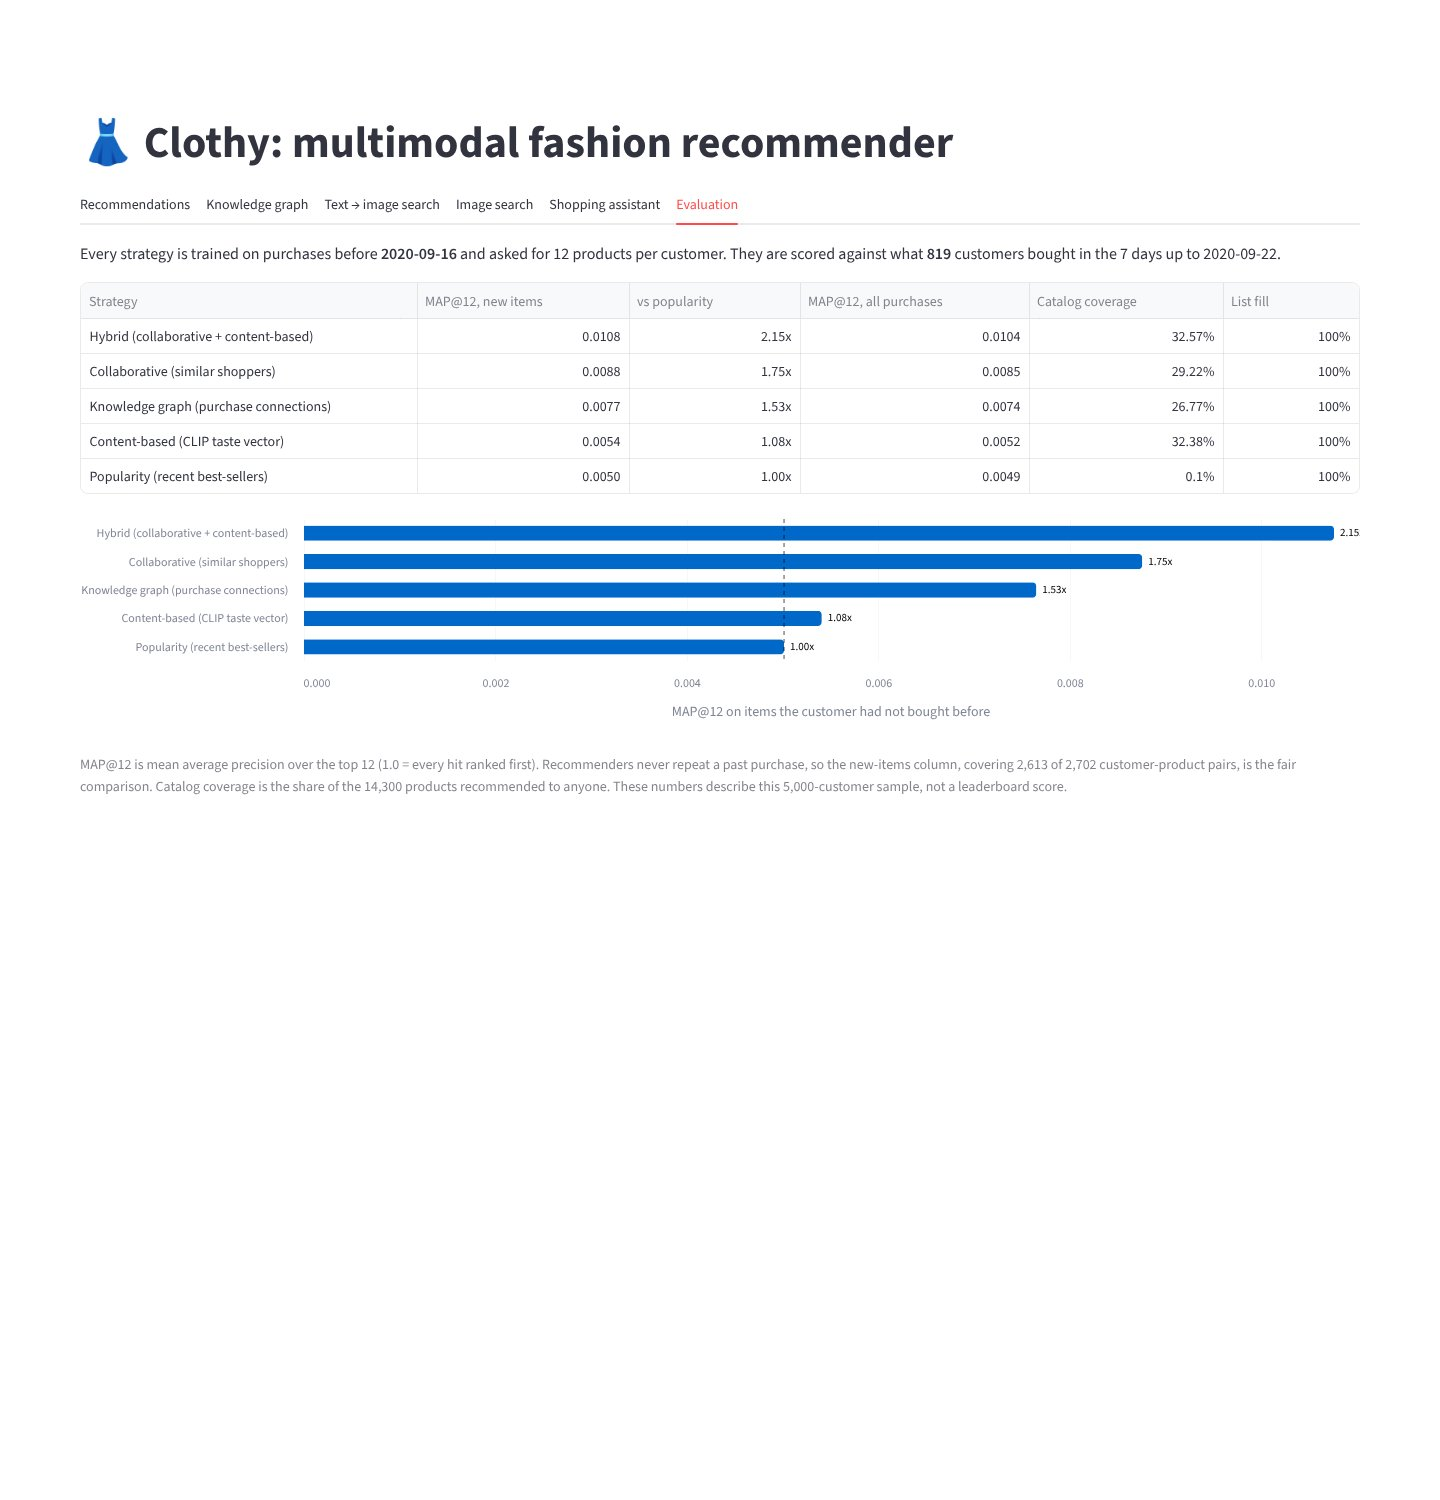
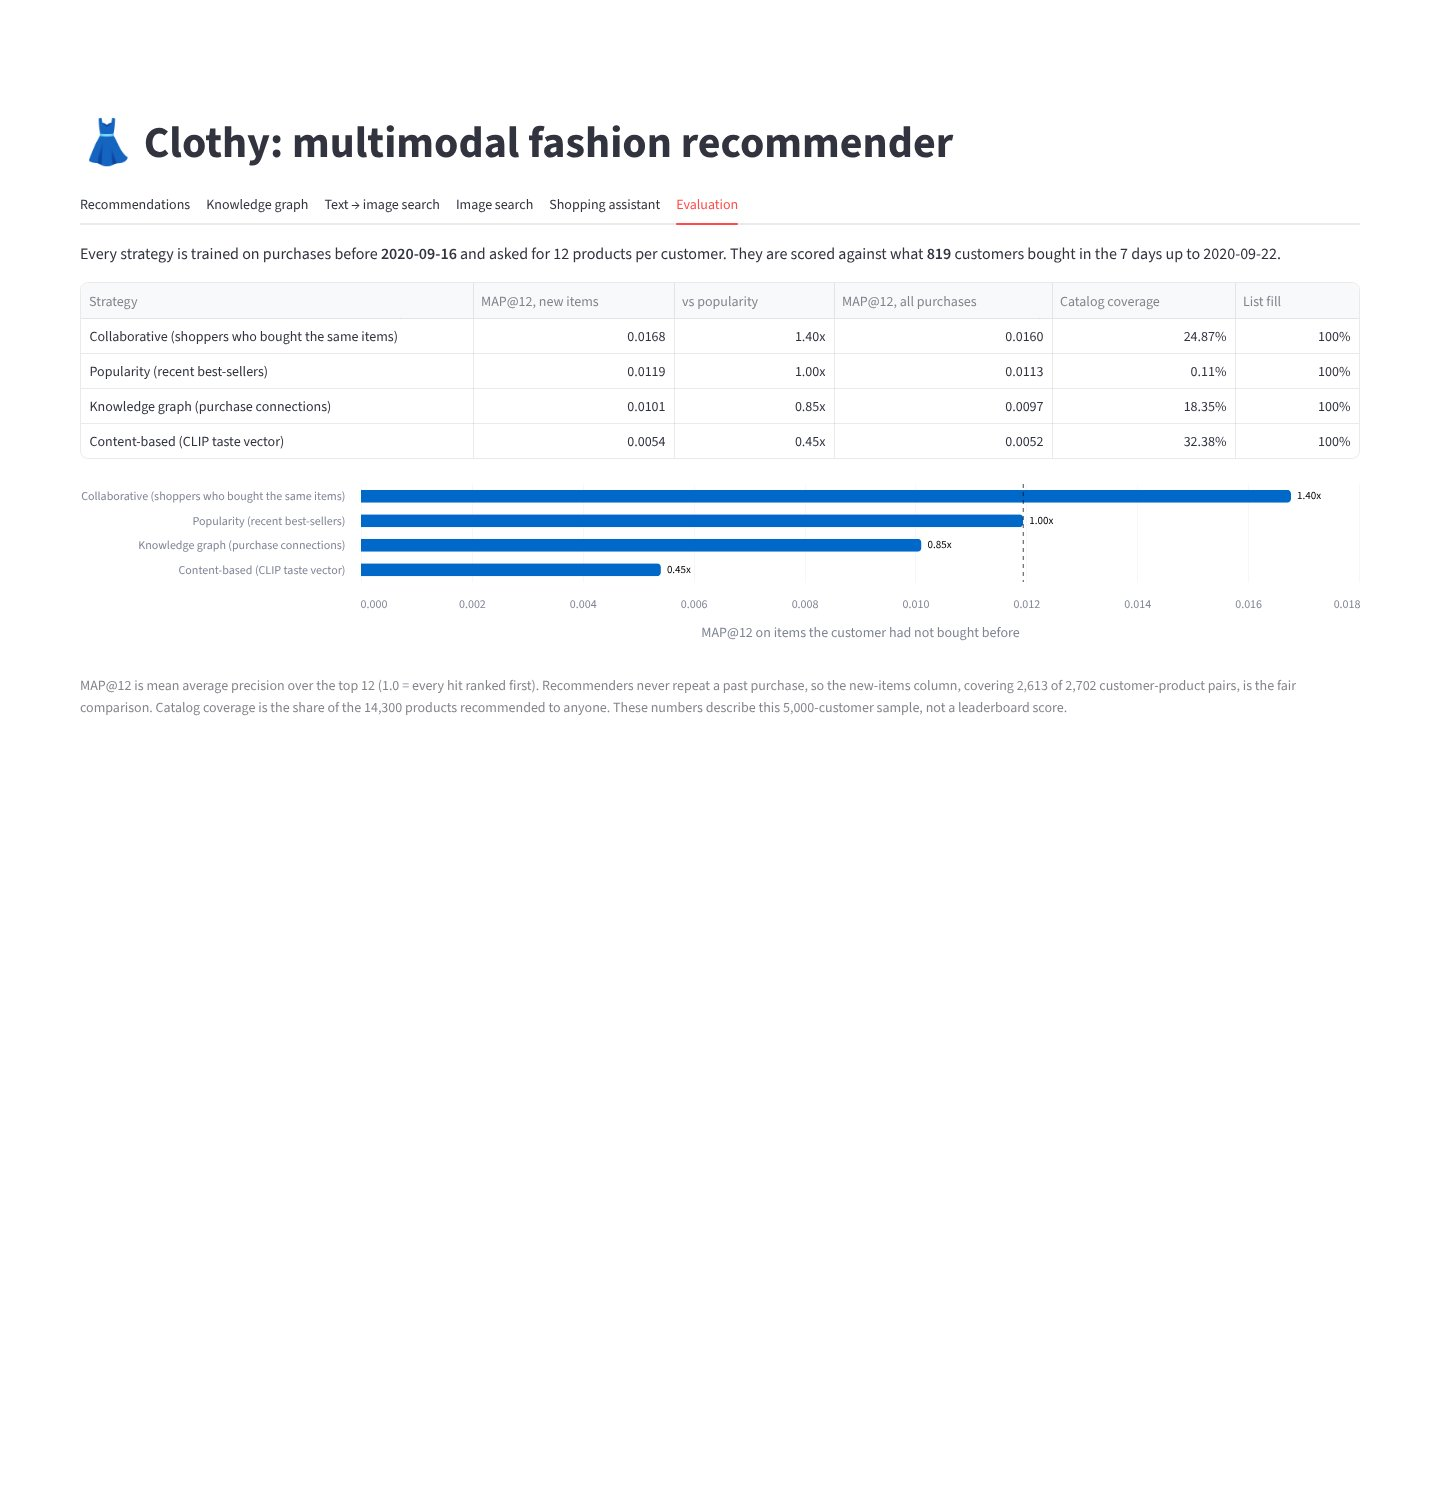
docs: recommendation audit, new results and screenshots
Document the audit, the validation protocol, the rejected ideas (padding
photos for CLIP, rank fusion) and the new results; re-capture the
screenshots with collaborative filtering as the default strategy.

diff --git a/scripts/take_screenshots.py b/scripts/take_screenshots.py
@@ -96,23 +96,16 @@ def main() -> None:
         if args.example:
             choose_example(page, args.example)
             wait_for_photos(page, PHOTOS_IN_VIEW)
-        capture(page, args.out, "recommendations-graph")
-
-        page.get_by_text("Content-based (CLIP taste vector)").click()
-        wait_for_rerun(page)
-        wait_for_photos(page, PHOTOS_IN_VIEW)
-        capture(page, args.out, "recommendations-content")
-
-        page.get_by_text("Collaborative (similar shoppers)").click()
-        wait_for_rerun(page)
-        page.get_by_text("Most similar shoppers").wait_for(timeout=RESULT_TIMEOUT_MS)
-        wait_for_photos(page, PHOTOS_IN_VIEW)
         capture(page, args.out, "recommendations-collaborative")
 
-        page.get_by_text("Hybrid (collaborative + content-based)").click()
-        wait_for_rerun(page)
-        wait_for_photos(page, PHOTOS_IN_VIEW)
-        capture(page, args.out, "recommendations-hybrid")
+        for strategy, name in [
+            ("Knowledge graph (purchase connections)", "recommendations-graph"),
+            ("Content-based (CLIP taste vector)", "recommendations-content"),
+        ]:
+            page.get_by_text(strategy).click()
+            wait_for_rerun(page)
+            wait_for_photos(page, PHOTOS_IN_VIEW)
+            capture(page, args.out, name)
 
         open_tab(page, "Knowledge graph")
         if args.example:

diff --git a/README.md b/README.md
@@ -9,21 +9,20 @@ search, classic and graph recommendations, and an LLM shopping assistant:
 | Image search | An uploaded photo is embedded with CLIP's image encoder and compared the same way. Example photos show H&M garments outside the sampled catalog, so every match is a different product. |
 | Visually similar products | A product's own image embedding is the query (CLIP item-to-item), shown next to the graph's co-purchase complements and alternatives. |
 | Content-based recommendations | One *taste vector* per interest: for each of the three product groups a user buys most (e.g. dresses, leggings), the recency-weighted mean of those purchases' image embeddings, searched within that group and the sections it was bought from. Groups get slots by weight, so a dress buyer who also buys leggings sees both. |
-| Collaborative recommendations | User-based collaborative filtering. Users are compared by cosine similarity on the sparse user × product purchase matrix, and each product is scored by the similarity-weighted votes of the nearest neighbours. |
-| Hybrid recommendations | Reciprocal rank fusion of the collaborative and content-based lists: who bought what, plus what it looks like. Each result names its rank in both lists. |
+| Collaborative recommendations | Item-to-item collaborative filtering over all ~480,000 shoppers in the 12-week window, not just the sample: a product scores by how many shoppers bought it together with the customer's purchases, recent purchases weighted more and best-sellers damped. Each result names the purchase behind it ("163 shoppers who bought Bradley trousers also bought this"). The best strategy offline. |
 | Graph recommendations | Past purchases seed an in-memory graph of co-purchases, Shopify categories and attributes. Shared attributes are weighted by inverse degree; each result includes its evidence. |
 | Knowledge graph | Explore a product's category, attributes and co-purchased neighbors, with complementary products and higher-priced alternatives. |
 | Offline evaluation | Every strategy is trained on purchases before a cutoff and scored on the following week (MAP@12, catalog coverage); the Evaluation tab compares them. |
 | Shopping assistant (RAG) | The LLM turns a message into a structured `SearchIntent`: a visual query plus product type, section (e.g. Menswear), colour and price filters. Qdrant retrieves the matching products, and the answer cites only those products. |
 
-Users without usable purchase history get the products bought most in the last two weeks of
-data, which also fill collaborative lists that come up short.
+Users without usable purchase history get the products all shoppers bought most in the last
+week of data, which also fill lists that come up short.
 
 The demo opens with ten real customers whose recommendations can be judged at a glance,
 two per section (Ladieswear, Divided, Menswear, Sport, Baby/Children). Each has a coherent
-history (6-30 products, at least 80% from one section), a similar shopper for collaborative
-filtering, a purchase with co-purchased complements for the graph, and a hybrid list that
-stays in their sections and covers their main product group. The checks only read the
+history (6-30 products, at least 80% from one section), ten collaborative recommendations
+all backed by co-purchases (no best-seller filler) that stay in their sections and cover
+their main product group, and a purchase with co-purchased complements for the graph. The checks only read the
 recommenders' output; nothing is tuned for these customers. "Browse all customers" keeps
 everyone else accessible, and the Evaluation tab scores all eligible customers.
 
@@ -33,22 +32,21 @@ Captured on the default sample (5,000 customers, 14,300 products) with
 `scripts/take_screenshots.py --example 5`: customer #1585, who mostly buys dresses, plus
 shirts, trousers and boots.
 
-### Recommendations: hybrid
+### Recommendations: collaborative
 
-Collaborative filtering and the CLIP taste vector each rank 50 candidates; reciprocal rank
-fusion promotes products both lists agree on, even when neither ranks them first.
+Dresses, trousers and blouses that hundreds of other shoppers bought together with this
+customer's recent purchases; each card names the purchase behind it.
 
-![Hybrid recommendations](docs/screenshots/recommendations-hybrid.jpg)
+![Collaborative recommendations](docs/screenshots/recommendations-collaborative.jpg)
 
-The same customer under the [knowledge graph](docs/screenshots/recommendations-graph.jpg),
-[content-based](docs/screenshots/recommendations-content.jpg) and
-[collaborative](docs/screenshots/recommendations-collaborative.jpg) strategies.
+The same customer under the [knowledge graph](docs/screenshots/recommendations-graph.jpg)
+and [content-based](docs/screenshots/recommendations-content.jpg) strategies.
 
 ### Evaluation
 
 Trained on purchases before 2020-09-16, scored on what 819 customers bought in the
-following seven days. Fusing what similar shoppers bought with what the customer's
-purchases look like beats either alone: 2.15x the popularity baseline.
+following seven days. Collaborative filtering scores 1.4x last week's best-sellers, which
+are themselves a strong baseline once counted over every shopper.
 
 ![Offline evaluation](docs/screenshots/evaluation.jpg)
 
@@ -86,7 +84,11 @@ dataset from Kaggle: 105k articles with photos and 31.8M real purchases from 201
 with at least five purchases, and extracts the photos of the products they bought.
 It also writes `co_purchases.parquet`: links between catalog products learned from all
 shoppers in that window, including shoppers outside the demo sample. Repeated purchases
-of one item count once per basket; pairs need at least two shared baskets.
+of one item count once per basket; pairs need at least two shared baskets. And it writes
+`shopper_purchases.parquet`: every shopper's purchases of catalog products (3.0M rows from
+about 480,000 shoppers, under anonymous integer ids), which popularity and collaborative
+filtering learn from. The 5,000 sampled customers alone made 2% of those purchases, far
+too few to rank 14,300 products.
 
 The dataset's prices are normalised. Multiplying them by 590 (a convention from the Kaggle
 competition discussion) gives realistic euro price points such as €29.99, so the prices shown
@@ -123,13 +125,12 @@ flowchart LR
     API --> CB[ContentBasedRecommender]
     API --> CF[CollaborativeRecommender]
     API --> G[GraphRecommender]
-    API --> H[HybridRecommender]
-    H --> CF & CB
     API --> A[ShoppingAssistant]
     S --> E[CLIP encoder]
     S --> Q[(Qdrant)]
     CB --> Q
     CB & CF --> P[PopularityRecommender]
+    CF & P --> SP[(All shoppers' purchases)]
     G --> P
     G --> KG[(Co-purchases + Shopify metadata)]
     A --> LLM[[Any LLM provider]]
@@ -145,7 +146,7 @@ src/clothes_recommender/
 ├── embeddings.py      # CLIP encoder (lazy-loaded)
 ├── vector_store.py    # Qdrant wrapper: upsert, filtered search, vector lookup
 ├── search.py          # Text and image search
-├── recommenders/      # content_based, collaborative, graph, hybrid, popularity
+├── recommenders/      # content_based, collaborative, graph, popularity
 ├── chat/              # llm (provider-agnostic), intent, prompts, assistant
 ├── services.py        # Composition root
 ├── api.py             # FastAPI app
@@ -244,8 +245,7 @@ Any OpenAI-compatible gateway (OmniRoute, OpenRouter, LiteLLM, Ollama, vLLM) wor
 | GET | `/search/examples`, `/search/examples/{id}/image` | Example query photos of garments outside the catalog |
 | GET | `/users`, `/users/{id}` | User ids; profile with purchase history |
 | GET | `/demo/customers` | Up to ten descriptive customer examples and starting products |
-| GET | `/users/{id}/recommendations?strategy=content\|collaborative\|graph` | Personalised recommendations; graph hits include reasons |
-| GET | `/users/{id}/similar` | Most similar shoppers |
+| GET | `/users/{id}/recommendations?strategy=collaborative\|graph\|content` | Personalised recommendations; collaborative and graph hits include reasons |
 | POST | `/chat` | `{"message": "...", "history": [...]}` |
 | GET | `/evaluation` | Offline evaluation results saved by `scripts.evaluate --output` |
 
@@ -255,41 +255,60 @@ Interactive docs at `http://localhost:8000/docs`.
 
 ```bash
 uv run python -m scripts.evaluate --data-dir data
-# Content-based and hybrid recommendations need an explicitly chosen matching image index;
+# Content-based recommendations need an explicitly chosen matching image index;
 # --output saves the JSON that GET /evaluation and the Evaluation tab show:
 uv run python -m scripts.evaluate --data-dir data --qdrant-path .qdrant --output data/evaluation.json
 ```
 
-Results on the default sample (5,000 customers, seed 42; 819 customers with purchases in
-the holdout week, 794 of them buying something new):
+The last seven calendar days (2020-09-16 to 09-22) are held out. Popularity, collaborative
+filtering and co-purchase links are rebuilt from every shopper's purchases before that
+week; nothing from the holdout week reaches training. Results on the default sample (5,000
+customers, seed 42; 819 of them bought in the holdout week, 794 something new):
 
 | Strategy | MAP@12, new items | vs popularity | MAP@12, all purchases | Catalog coverage |
 |---|---|---|---|---|
-| Hybrid (collaborative + content-based) | 0.0108 | 2.15x | 0.0104 | 32.6% |
-| Collaborative | 0.0088 | 1.75x | 0.0085 | 29.2% |
-| Knowledge graph | 0.0077 | 1.53x | 0.0074 | 26.8% |
-| Content-based | 0.0054 | 1.08x | 0.0052 | 32.4% |
-| Popularity | 0.0050 | 1.00x | 0.0049 | 0.1% |
+| Collaborative (item-to-item, all shoppers) | 0.0168 | 1.40x | 0.0160 | 24.9% |
+| Popularity (all shoppers, last 7 days) | 0.0119 | 1.00x | 0.0113 | 0.1% |
+| Knowledge graph | 0.0101 | 0.85x | 0.0097 | 18.4% |
+| Content-based | 0.0054 | 0.45x | 0.0052 | 32.4% |
 
-Per-interest taste vectors replaced a single vector over all purchases, which averaged
-different garments into one look: content-based went from 0.0046 to 0.0054, the hybrid from
-0.0103 to 0.0108, and recommendations from a section the customer never bought from fell
-from 10% to none. The hybrid pairing was chosen on this same holdout, with the earlier
-content recommender: collaborative + content-based scored better than collaborative + graph
-(0.0094) or all three (0.0096). RRF's constant stays at the standard 60 rather than the
-slightly better 10 (0.0110). With one sample and one holdout week, treat differences of a
-few percent as noise.
+Recommenders never repeat a past purchase, so "new items" is the fair column. JSON output
+also includes list fill. Users without both training and holdout purchases are excluded.
 
-The last seven calendar days are held out. Popularity, collaborative filtering and
-co-purchase links are rebuilt using training purchases only; the evaluator never reuses
-the full-window links file. JSON output includes MAP@12, catalog coverage and list fill.
-Full-holdout and novel-item scores are separate because current recommenders exclude
-previous purchases. Users without both training and holdout purchases are excluded.
+### Audit: where the signal was lost
 
-The prepared sample and catalog can reflect the full observation window, so these are
-sample-level results, not a population estimate or a competition leaderboard score.
-Evaluation learns links from the prepared shoppers only; production preparation uses all
-shoppers. CLIP image vectors are fixed features, but index provenance is not recorded.
+An audit of the earlier system found the recommenders learning from the 5,000 sampled
+customers only, 2% of the window's purchases. Each fix was measured on the holdout week:
+
+| Change | Before | After |
+|---|---|---|
+| Collaborative: user-based on the sample -> item-to-item on all shoppers | 0.0088 | 0.0168 |
+| Popularity: sample, 14 days -> all shoppers, 7 days | 0.0050 | 0.0119 |
+| Graph evaluation: links from the sample -> all shoppers, as in production | 0.0077 | 0.0101 |
+| Content-based: one averaged taste vector -> one per product group | 0.0046 | 0.0054 |
+
+Settings were chosen on three earlier validation weeks (holdouts starting 08-26, 09-02 and
+09-09) and the table above was measured once afterwards. The chosen collaborative settings
+(popularity damping 0.3, a 7-day half-life on the customer's history) scored best on the
+validation mean; 7 days of popularity beat 5 and 14. Two ideas were tested and dropped:
+
+- **Padding photos to a square before CLIP**, so its center crop keeps a dress's neckline
+  and hem, made content-based worse (0.0052 to 0.0032): the crop keeps fabric, print and
+  colour at a higher resolution, which predicts purchases better.
+- **Fusing strategies with reciprocal rank fusion.** The earlier hybrid (collaborative +
+  content) was the best strategy against the weak user-based CF, but next to item-to-item
+  CF fusion added nothing (+0.1% on validation) and fusing content hurt (-18%), so the
+  hybrid was removed.
+
+Re-recommending a customer's own recent purchases would score 0.0212 on all purchases,
+because many H&M customers rebuy items. The recommenders exclude past purchases by design,
+which costs that signal on the "all purchases" column.
+
+The prepared sample and catalog can reflect the full observation window (the catalog is
+the set of products the sample bought), so these are sample-level results, not a
+population estimate or a competition leaderboard score. In evaluation, co-purchase lift
+counts only baskets with catalog products. CLIP image vectors are fixed features, but index
+provenance is not recorded.
 
 The development workflow and remaining validation are recorded in
 [engineering workflow](docs/engineering-workflow.md).

diff --git a/docs/session-handoff.md b/docs/session-handoff.md
@@ -16,29 +16,35 @@ downsizing. `build_index` embedded all 14,280 in about 5 minutes at 50 img/s on 
 
 - `prepare_data` reads an unzipped directory; `fetch_photos` downsizes like extraction does.
 - API: `/products/{id}/similar`, `/sections` plus a section filter on text search,
-  `/search/examples`, `/evaluation`, and `strategy=hybrid` with per-component rank reasons.
-- `HybridRecommender`: reciprocal rank fusion (k=60) of collaborative and content-based.
+  `/search/examples`, `/evaluation`, and reasons on collaborative hits; `/users/{id}/similar`
+  was removed with user-based collaborative filtering.
 - UI: photos on cards, text search with examples and section filter, image search with
   example photos, "Looks similar" in the graph explorer, and an Evaluation tab.
-- `evaluate --output` saves the JSON the Evaluation tab reads; the hybrid is evaluated
+- `evaluate --output` saves the JSON the Evaluation tab reads; content-based is evaluated
   whenever an image index is given.
 - Screenshots re-captured from the H&M sample; legacy and coming-soon captures removed.
 - MIT licence; history rewritten without commit trailers and without the old Amazon data.
 
-## Evaluation (seven-day holdout, 819 customers)
+## Recommendation audit (2026-10-25)
 
-New-item MAP@12: hybrid 0.0108, collaborative 0.0088, graph 0.0077, content-based 0.0054,
-popularity 0.0050. The hybrid pairing was chosen on this holdout (see README).
+The recommenders learned from the 5,000 sampled customers only, 2% of the window's
+purchases. `prepare_data` now also writes `shopper_purchases.parquet` (3.0M purchases of
+catalog products by ~480k anonymous shoppers). Popularity counts every shopper over 7 days;
+collaborative filtering is item-to-item over every shopper, with a 7-day half-life on the
+customer's history and popularity damping 0.3; evaluation rebuilds all crowd signals from
+purchases before the cutoff. The hybrid was removed: with item-to-item CF it added nothing
+on validation, and fusing content hurt. Padding photos to a square for CLIP was tested and
+rejected (content-based fell from 0.0052 to 0.0032).
 
-Content-based now uses one taste vector per product group, searched within the sections
-that group was bought from. The single averaged vector had turned a dress buyer's history
-into leggings and trousers, including menswear.
+Settings were chosen on validation weeks starting 08-26, 09-02 and 09-09, then measured
+once on the 09-16 week. New-item MAP@12: collaborative 0.0168 (was 0.0088), popularity
+0.0119 (was 0.0050), graph 0.0101 (was reported as 0.0077), content-based 0.0054.
 
 ## Demo examples
 
 Ten customers, two per section, chosen by the documented criteria in `demo.py` (coherent
-history, a similar shopper, co-purchase complements, a hybrid list within their sections).
-Choosing them takes about 12 s and now happens at API startup.
+history, ten collaborative recommendations backed by co-purchases and within their
+sections, co-purchase complements for the graph). Selection happens at API startup.
 
 ## Open items
 
@@ -46,4 +52,4 @@ Choosing them takes about 12 s and now happens at API startup.
   there is no current chat screenshot. Configure `.env` and run `take_screenshots` without
   `--skip-chat`.
 - The Docker image was not rebuilt after these changes.
-- A second sample or holdout week would show whether the hybrid's lead is stable.
+- The catalog is the set of products the sample bought, which flatters every strategy.
